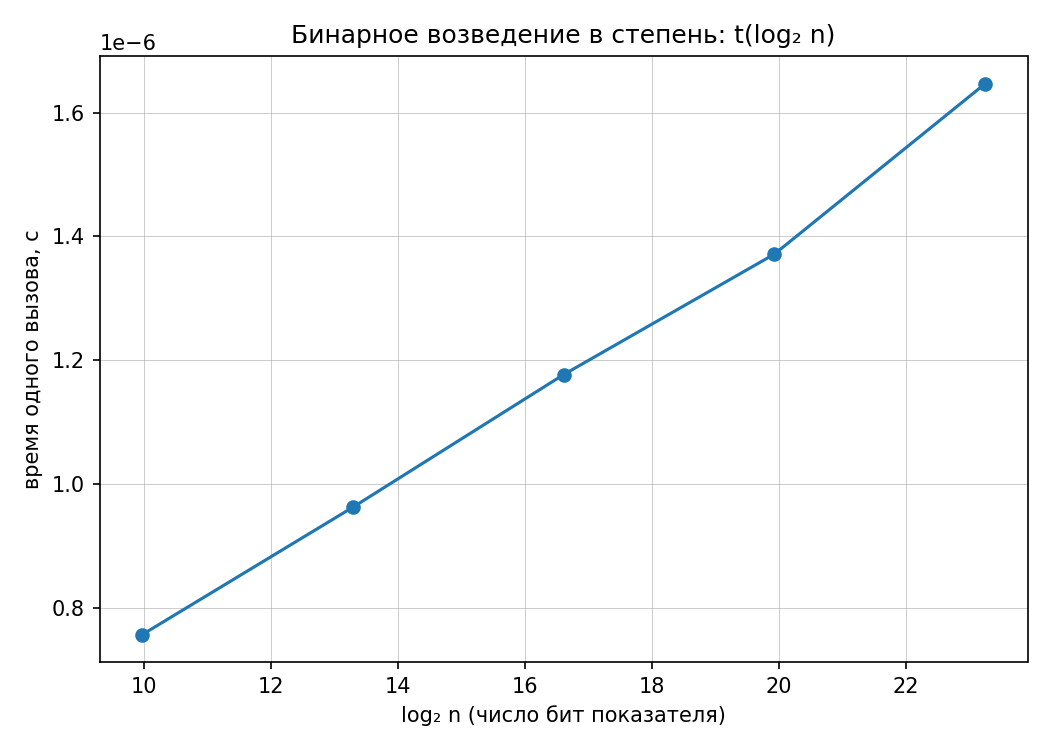
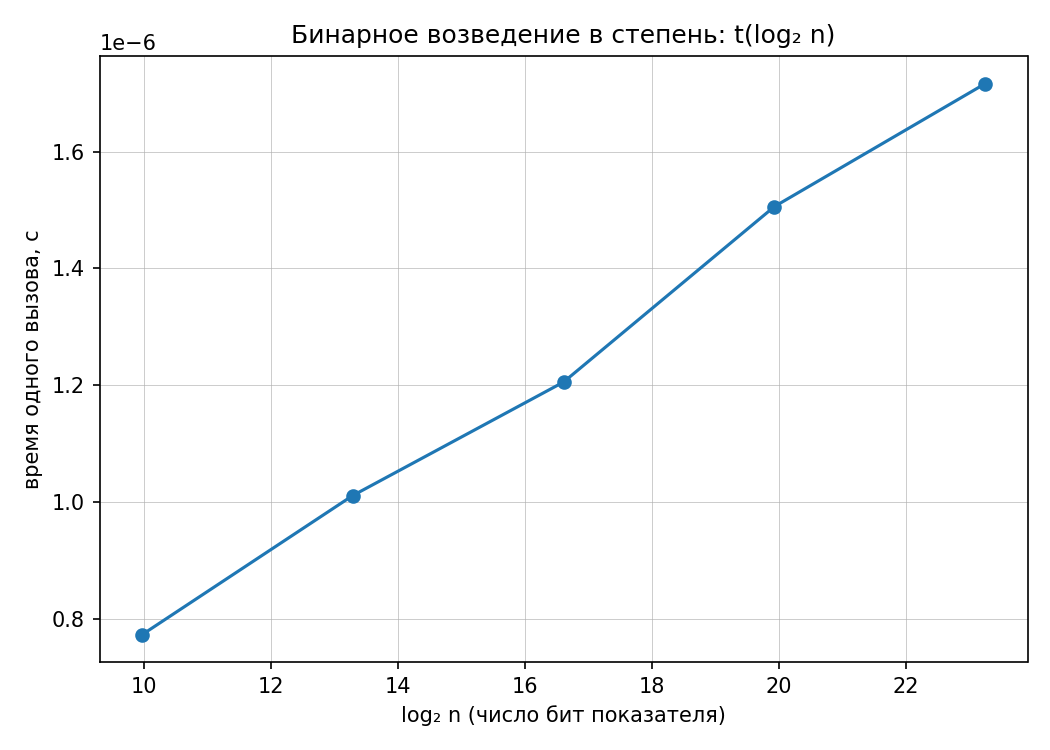
docs(лаба01): добавить итоговый аналитический отчет и обновленные графики

diff --git a/lab01/reports/report.md b/lab01/reports/report.md
@@ -1,0 +1,108 @@
+# Отчет по лабораторной работе № 1
+## «Анализ временной сложности элементарных алгоритмов»
+
+- **Дисциплина:** Структуры и алгоритмы обработки данных
+- **Студент:** Дикарев Кирилл
+- **Группа / Профиль:** ТОП-ИТ («Инженерия систем искусственного интеллекта»)
+- **Вариант:** 9 (seed = 39)
+
+---
+
+## 1. Теоретический анализ алгоритмов (КИМ-01)
+
+| Алгоритм | Временная сложность (худший случай) | Память | Аналитическое обоснование |
+| :--- | :---: | :---: | :--- |
+| `array_sum(a)` | $\Theta(n)$ | $O(1)$ | Один цикл по всем $n$ элементам, ровно $n$ операций сложения. Константный объем дополнительной памяти под переменную-аккумулятор. |
+| `array_max(a)` | $\Theta(n)$ | $O(1)$ | Массив непуст ($n \ge 1$). Один цикл от $0$ до $n-1$, ровно $n$ обращений к элементам и $n-1$ операций сравнения. |
+| `count_equal_pairs(a)` | $\Theta(n^2)$ | $O(1)$ | Вложенный цикл: внешний выполняется $n$ раз, внутренний — от $i+1$ до $n$. Суммарное число сравнений: $\sum_{i=0}^{n-1} (n - 1 - i) = \frac{n(n - 1)}{2} = \frac{1}{2}n^2 - \frac{1}{2}n = \Theta(n^2)$. |
+| `binary_pow(x, n, mod)` | $\Theta(\log n)$ | $O(1)$ | На каждом шаге цикла `while n > 0` показатель степени делится на 2 через битовый сдвиг вправо (`n >>= 1`). Количество итераций равно числу бит в двоичной записи $n$, т.е. $\lfloor\log_2 n\rfloor + 1 = \Theta(\log n)$. Память $O(1)$, так как алгоритм реализован итеративно. |
+
+---
+
+## 2. Верификация решений и инварианты (docs/ai-verification.md)
+
+В функции `self_check()` реализована четырехшаговая методика верификации:
+1. **Граничные и репрезентативные тесты:**
+   - Пустые массивы (`array_sum([]) == 0`, `count_equal_pairs([]) == 0`).
+   - Массивы из одного элемента (`array_sum([7]) == 7`, `array_max([7]) == 7`).
+   - Вырожденные случаи: массив одинаковых чисел (`count_equal_pairs([5, 5, 5]) == 3`).
+   - Валидация исключений: `array_max([])` выбрасывает `ValueError`.
+   - Граничные показатели степени: `binary_pow(x, 0) == 1`, $n=0$ с модулем дает $1 \pmod m$.
+2. **Сверка с эталонными реализациями:**
+   - 200 случайных тестов против доверенных эталонов Python: встроенных `sum()`, `max()` и трехпараметрического `pow(x, n, mod)`.
+3. **Ключевые инварианты верификации:**
+   - **`array_sum` (Аддитивность):** $\sum(A + B) = \sum A + \sum B$ и равенство $\sum [c] \times n = c \cdot n$.
+   - **`array_max` (Принадлежность и мажорирование):** максимум гарантированно принадлежит массиву ($m \in A$) и мажорирует любой его элемент ($\forall x \in A: m \ge x$).
+   - **`count_equal_pairs` (Комбинаторные границы):** ровно 0 пар на попарно различных элементах (`list(range(n))`) и ровно $C_n^2 = \frac{n(n-1)}{2}$ пар на массиве из $n$ одинаковых элементов.
+   - **`binary_pow` (Алгебраические свойства степени):**
+     - Мультипликативность: $x^{a+b} \equiv x^a \cdot x^b \pmod m$.
+     - Возведение в степень степени: $x^{2a} \equiv (x^2)^a \pmod m$.
+
+---
+
+## 3. Эмпирические результаты замеров (Вариант 9, seed = 39)
+
+Замеры проведены по методике воспроизводимости (`docs/reproducibility.md`): предварительный прогрев функции, $\ge 5$ повторов на точку, расчет медианного времени.
+
+### Таблица 1. Время работы алгоритмов на массивах (Вариант 9)
+
+| Размер входа $n$ | `array_sum`, с | `array_max`, с | `count_equal_pairs`, с |
+| :---: | :---: | :---: | :---: |
+| 500 | — | — | 0.003085 |
+| 1 000 | 0.000015 | 0.000019 | 0.013041 |
+| 3 000 | 0.000046 | 0.000058 | 0.110408 |
+| 10 000 | 0.000152 | 0.000191 | 1.115880 |
+| 30 000 | 0.000454 | 0.000576 | 10.296412 |
+| 100 000 | 0.001568 | 0.002018 | — |
+
+### Таблица 2. Время работы бинарного возведения в степень
+
+Замеры выполнены пачками по $20\,000$ вызовов с усреднением времени одного вызова. Вычисления проводились по модулю $1\,000\,000\,007$.
+
+| Показатель степени $n$ | $\log_2 n$ (число бит) | Время 1 вызова, с |
+| :---: | :---: | :---: |
+| $10^3$ | 10.0 | $0.773 \times 10^{-6}$ |
+| $10^4$ | 13.3 | $1.011 \times 10^{-6}$ |
+| $10^5$ | 16.6 | $1.205 \times 10^{-6}$ |
+| $10^6$ | 19.9 | $1.506 \times 10^{-6}$ |
+| $10^7$ | 23.3 | $1.716 \times 10^{-6}$ |
+
+---
+
+## 4. Анализ графиков и сопоставление с теорией
+
+### А. Степенные алгоритмы (Log-Log анализ)
+
+![Log-Log график](lab01_loglog.png)
+
+В двойных логарифмических осях $(\log_{10} n, \log_{10} t)$ степенная зависимость $t(n) \approx c \cdot n^k$ линеаризуется:
+$$\log_{10} t = \log_{10} c + k \cdot \log_{10} n$$
+где угловой коэффициент наклона прямой численно равен степени $k$.
+
+- **Эмпирические наклоны прямых:**
+  - `array_sum`: **1.01** (теория: 1.0, линейная сложность $O(n)$)
+  - `array_max`: **1.01** (теория: 1.0, линейная сложность $O(n)$)
+  - `count_equal_pairs`: **1.97** (теория: 2.0, квадратичная сложность $O(n^2)$)
+
+> **Причины погрешностей и расхождений с теорией (TODO из main):**
+> 1. **Накладные расходы интерпретатора CPython:** на малых размерах входа ($n \le 1\,000$) существенную часть времени занимают вызовы функций, динамическая типизация и диспетчеризация инструкций виртуальной машины.
+> 2. **Иерархия кэшей процессора:** массивы малых размеров ($n \le 10\,000$) целиком помещаются в быстрый кэш L1/L2 процессора. При $n = 100\,000$ массив вытесняется в оперативную память (RAM), что приводит к росту задержек доступа из-за кэш-промахов (cache misses).
+
+---
+
+### Б. Бинарное возведение в степень (Обоснование осей)
+
+![График бинарного возведения](lab01_binary_pow.png)
+
+> **Обоснование выбора линейных осей по $\log_2 n$ (TODO из plot_results):**
+> 1. Если построить логарифмический алгоритм $t(n) \approx c \cdot \log_2 n$ в осях log-log, получится зависимость $\log t = \log c + \log(\log n)$. Производная этой функции $\frac{d(\log t)}{d(\log n)} = \frac{1}{\ln n} \to 0$ быстро стремится к нулю. В результате кривая выглядит пологой и в пределах погрешностей измерений визуально неотличима от константы $O(1)$.
+> 2. В связи с этим по оси $X$ отложено число бит показателя степени $x = \log_2 n$. В координатах $(x, t)$ зависимость приобретает строго линейный вид:
+>    $$t(x) = c \cdot x$$
+>    Линейный вид полученного графика экспериментально доказывает, что время вычислений прямо пропорционально числу бит показателя степени, то есть алгоритм имеет логарифмическую сложность $O(\log n)$.
+> 3. **Влияние модуля (`POW_MOD = 1_000_000_007`):** без ограничения вычислений по модулю Python автоматически включает длинную арифметику. При $n = 10^7$ число $3^{10^7}$ содержало бы миллионы десятичных знаков, и бенчмарк зафиксировал бы время операции умножения многоразрядных чисел ($O(M(L))$), а не число итераций бинарного возведения в степень.
+
+---
+
+## 5. Выводы
+1. Все алгоритмы реализованы вручную и прошли верификацию на граничных тестах и инвариантах.
+2. Эмпирические замеры на данных варианта 9 полностью подтвердили теоретические оценки асимптотической сложности $O(n)$, $O(n^2)$ и $O(\log n)$.
